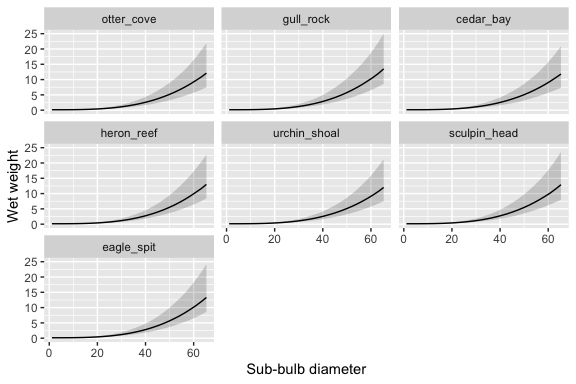
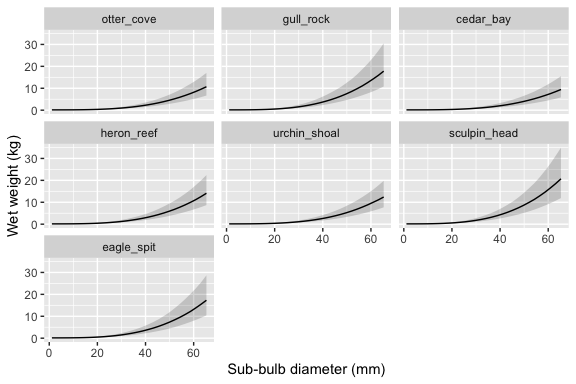
Remove density covariate references from the docs

diff --git a/CLAUDE.md b/CLAUDE.md
@@ -67,17 +67,17 @@ Adaptations from the analysis Stan models: prior hyperparameters are passed thro
 
 - **Backend**: `rstan` + `rstantools`; Stan models in `inst/stan/` are pre-compiled at `R CMD INSTALL`. Users need no `cmdstanr` or Stan installation. Why: `decisions/engine-choice.md`.
 - **Priors as data**: hyperparameters go in the Stan `data` block as `prior_<entry>_<argument>` (built by `prior_data()`); the prior family is fixed at compile time. Users set priors with `kb_prior_normal()` / `kb_prior_exponential()` / `kb_prior_lognormal()` in the list from `kb_priors_*()`.
-- **Structural flags**: small effects are toggled by 0/1 data flags (`site_year_on`, `density_on`, `floor_on`, `prior_only`) that the fitting layer sets from the data or from a model-choice argument (`form`), never exposed as flag arguments themselves. Use a separate `.stan` only for a different likelihood or major variant; each species is such a variant (`decisions/species-as-variant.md`).
+- **Structural flags**: small effects are toggled by 0/1 data flags (`site_year_on`, `floor_on`, `prior_only`) that the fitting layer sets from the data or from a model-choice argument (`form`), never exposed as flag arguments themselves. Use a separate `.stan` only for a different likelihood or major variant; each species is such a variant (`decisions/species-as-variant.md`).
 - **Parameter names** (snake_case, applied by rule even where nothing would collide; rationale and the mapping from the analysis names in `decisions/parameter-naming.md`):
   1. The intercept of a linear predictor is `intercept`.
-  2. A parameter tied to a predictor is `<predictor>_<role>`, `<predictor>` being the Stan data field it acts on without its unit suffix: `<predictor>_slope` for a coefficient (`density_slope`, `fronds_slope`, `tide_height_slope`, `cover_slope`), `<predictor>_power` for an exponent (`diameter_power`).
+  2. A parameter tied to a predictor is `<predictor>_<role>`, `<predictor>` being the Stan data field it acts on without its unit suffix: `<predictor>_slope` for a coefficient (`fronds_slope`, `tide_height_slope`, `cover_slope`), `<predictor>_power` for an exponent (`diameter_power`).
   3. Group-level terms are `sd_<group>`, `<group>_effect`, and `z_<group>` (non-centred deviates) for `site`, `year`, and `site_year`.
   4. Distribution parameters take their standard names: `shape`, `dispersion` (negative binomial, variance `mu + dispersion * mu^2`), `precision` (Beta), `sd_residual`.
   5. A floor is `<quantity>_floor` (`weight_floor`, `biomass_floor`).
   6. Link-scale terms of a linear predictor take no scale prefix; a standalone scalar stored on a transformed scale takes `log_` or `logit_` (`logit_zero_inflation`).
   7. No parameter shares a name with a data field, an input column, a Stan reserved word (`lower`, `upper`, `offset`, `multiplier`, `target`), or a Stan function (`floor`, `gamma`, `beta`, `log`, `exp`).
   8. A parameter's prior entry in `kb_priors_*()` has the parameter's name.
-- **Stan data names**: a field passing an input column through takes the column's name (`diameter_mm`, `area_m2`, `tide_height_m`); a derived field is named for its quantity (`log_biomass`, `dry_wet_ratio`, standardised `density`); sizes are `n_obs`, `n_site`, `n_year`; flags keep `<effect>_on`.
+- **Stan data names**: a field passing an input column through takes the column's name (`diameter_mm`, `area_m2`, `tide_height_m`); a derived field is named for its quantity (`log_biomass`, `dry_wet_ratio`); sizes are `n_obs`, `n_site`, `n_year`; flags keep `<effect>_on`.
 - **Stan code**: non-centred random effects (`site_effect = z_site * sd_site`); the mean is a local in the `model` block and there are no generated quantities, since `log_lik` and replicates are computed in R from the stored draws.
 - **Sampling** defaults: 4 chains, `adapt_delta = 0.95`, thinning by `nthin`.
 
@@ -103,7 +103,7 @@ predict.kb_fit_weight  # model tier: wraps the model-named kb_predict_weight()
 .epred.kb_fit_weight              # model tier (nereo overrides for the lognormal mean)
 .linpred.kb_fit_weight_nereo      # leaf: also .obs_family/.chk_new_data
 # Per-model facts that are values, not behaviour, live in meta instead (offset,
-# terms, predictor, predictor_ref, form, and the site_year_on/density_on flags). See "Meta Versus
+# terms, predictor, predictor_ref, form, and the site_year_on flag). See "Meta Versus
 # Dispatch" in decisions/architecture.md for the rule that decides which.
 ```
 
@@ -131,12 +131,12 @@ Access via `$`: `x$draws`, `x$data`, `x$meta`; `kb_samples(x)` and `posterior::a
     cli::cli_abort("{x_name} must be greater than or equal to 0.")
   }
   ```
-- **Input columns**: a column measured in a unit names it as a suffix (`diameter_mm`, `weight_kg`, `stipes_m2`); counts (`fronds`) and grouping columns (`site`, `year`) take none. A column shared by sub-models keeps one name and unit (`column_units`). Units are fixed, never converted; the plausibility warnings back them. Stan data fields that pass a column through keep its name and suffix; parameters and prior entries are not columns and take no unit suffix (`density_slope`, `diameter_power`).
+- **Input columns**: a column measured in a unit names it as a suffix (`diameter_mm`, `weight_kg`, `area_m2`); counts (`fronds`) and grouping columns (`site`, `year`) take none. A column shared by sub-models keeps one name and unit (`column_units`). Units are fixed, never converted; the plausibility warnings back them. Stan data fields that pass a column through keep its name and suffix; parameters and prior entries are not columns and take no unit suffix (`fronds_slope`, `diameter_power`).
 - **Output columns**: summaries use `term` / `estimate` / `lower` / `upper` (following bboutools).
 - **Documentation**: roxygen2 with markdown; shared parameters and sections live in `R/params.R` (`@inheritParams params`, `@inheritSection params`). Every reader-facing text (roxygen, `_pkgdown.yml`, README, vignettes) follows `STYLE.md`: topic structure, argument and return wording, vocabulary, examples, and templates per topic type.
 - **Arguments**: name by type, not by dispatch: `data` for input data, `fit` for a fit object (including `kb_stancode()` and `kb_samples()`), `predictions` for a `kb_predictions` frame. S3 methods must keep the generic's first-arg name (`object` for base/stats/rstantools/ggplot2, `x` for generics/posterior), which `R CMD check` enforces, so `object`/`x`/`fit` all naming the same fit is expected, not an inconsistency to fix. Multi-word names are snake_case (`new_data`, `new_levels`, `conf_level`); take the ecosystem spelling only where a generic fixes it (e.g. `transform` in `posterior_linpred`). Order follows the tidyverse data-descriptors-details shape: primary object, then descriptor arguments meant to be passed positionally (`new_data`, `by`, `priors`, then any model choice such as `form`, after `priors` so `priors` stays second in every fit function except the cover biomass fits, whose required `biomass` data frame comes second, before it), then `...`, then every optional detail knob as a name-only argument after `...` (`new_levels`, `representative_site`, `conf_level`, `estimate`, `sig_fig`, `include_random_effects`, `rhat`, `ess`, sampler config) so details cannot be set positionally; guard an empty `...` with `rlang::check_dots_empty()`. The exception is `kb_new_data()`, whose `...` takes the predictor by its column name (`diameter_mm`, `fronds`, or `cover`) and levels of `site` or `year` not in `by`, checked against the fit. The summary trio `conf_level, estimate, sig_fig` keeps that order everywhere. `@param` wording follows `STYLE.md`.
 - **Writing** (docs, README, vignettes, roxygen, specs, PR/commit text): follow the writing style in `~/.claude/CLAUDE.md` (and `STYLE.md` for documentation); in particular no em-dashes or en-dashes (use hyphens, commas, or colons) and no mid-sentence bold for emphasis; concise technical register
-- **File layout**: one function per file, file named after the function (`kb_fit_weight_nereo()` → `R/kb_fit_weight_nereo.R`). S3 methods grouped one file per generic, named after the generic (`R/print.R` holds all `print.*` methods, `R/tidy.R` all `tidy.*`, etc.). Internal functions that share one contract go in one family file named for the family: `chk.R` (`.chk_*`), `vld.R` (`.vld_*`), `warn.R` (plausibility warnings on user data), `structural_flags.R` (`.site_year_on()`, `.density_on()`, `.floor_on()`), and one file per distribution for the extras-style `log_lik_*`/`res_*`/`ran_*` functions (`weibull.R`). Dataset documentation lives in `R/data.R` (simulated datasets) and `R/fits.R` (pre-fit models). A computation and the notifier that reports it share a file (`density_structure()` and `notify_density()`). Other internal helpers go in clearly-named files, never a catch-all `utils.R`.
+- **File layout**: one function per file, file named after the function (`kb_fit_weight_nereo()` → `R/kb_fit_weight_nereo.R`). S3 methods grouped one file per generic, named after the generic (`R/print.R` holds all `print.*` methods, `R/tidy.R` all `tidy.*`, etc.). Internal functions that share one contract go in one family file named for the family: `chk.R` (`.chk_*`), `vld.R` (`.vld_*`), `warn.R` (plausibility warnings on user data), `structural_flags.R` (`.site_year_on()`, `.floor_on()`), and one file per distribution for the extras-style `log_lik_*`/`res_*`/`ran_*` functions (`weibull.R`). Dataset documentation lives in `R/data.R` (simulated datasets) and `R/fits.R` (pre-fit models). A computation and the notifier that reports it share a file (`site_year_structure()` and `notify_site_year()`). Other internal helpers go in clearly-named files, never a catch-all `utils.R`.
 - **Testing**: testthat 3e; strict 1:1 test mirroring (`R/<name>.R` ↔ `tests/testthat/test-<name>.R`). Test the wrapper, not the model's numbers. Snapshot print methods + messages; NEVER snapshot MCMC numerics (test structure + invariants instead). **Never accept snapshot changes** (`testthat::snapshot_accept()`, or accepting via any other route): snapshots are the user's review surface. Run the tests, report what changed and why, and leave the `.new` files in place for the user to review locally with `testthat::snapshot_review()`. Small pre-built fits in `tests/testthat/fixtures/` (built with `rstan::sampling(seed=)`, not `set.seed`); they test structure, not inference, and may not meet the strict `converged()` thresholds. Slow end-to-end fits `skip_on_cran()`. Factor pure logic (data/prior assembly) out of fit functions for MCMC-free testing.
 - **Code style**: tidyverse; no lubridate, reshape2, plyr, or data.table
 - **No `library()` calls** in package code; use `@importFrom` or `pkg::fun()`

diff --git a/README.md b/README.md
@@ -49,22 +49,22 @@ The allometric weight model relates wet weight to sub-bulb diameter,
 with random effects for year, site, and site-by-year.
 
 The model is fitted to a data frame of `diameter_mm`, `weight_kg`,
-`site`, and `year`, with an optional site-year stipe density,
-`stipes_m2`. A small simulated dataset is included with the package:
+`site`, and `year`. A small simulated dataset is included with the
+package:
 
 ``` r
 library(kelpbio)
 
 head(data_weight_sim_nereo)
-#> # A tibble: 6 × 5
-#>   diameter_mm weight_kg site       year  stipes_m2
-#>         <dbl>     <dbl> <fct>      <fct>     <dbl>
-#> 1        26.6     0.661 otter_cove 2019       0.37
-#> 2        11.8     0.134 otter_cove 2019       0.37
-#> 3        22.8     0.715 otter_cove 2019       0.37
-#> 4        37.1     1.94  otter_cove 2019       0.37
-#> 5        36.5     1.52  otter_cove 2019       0.37
-#> 6        25.9     0.271 otter_cove 2019       0.37
+#> # A tibble: 6 × 4
+#>   diameter_mm weight_kg site       year 
+#>         <dbl>     <dbl> <fct>      <fct>
+#> 1        26.6     0.59  otter_cove 2019 
+#> 2        11.8     0.129 otter_cove 2019 
+#> 3        22.8     0.644 otter_cove 2019 
+#> 4        37.1     1.71  otter_cove 2019 
+#> 5        36.5     1.34  otter_cove 2019 
+#> 6        25.9     0.242 otter_cove 2019
 ```
 
 Fit the model with `kb_fit_weight_nereo()`:
@@ -85,23 +85,23 @@ Check convergence with `glance()` and summarise the model terms with
 
 ``` r
 glance(fit)
-#> # A tibble: 1 × 9
-#>       n     K nchains niters nthin   ess  rhat perc_divergent converged
-#>   <int> <int>   <int>  <dbl> <int> <dbl> <dbl>          <dbl> <lgl>    
-#> 1   420    11       3    500     2  641.  1.00              0 TRUE
+#> # A tibble: 1 × 10
+#>       n     K nchains niters nthin ess_bulk ess_tail  rhat perc_divergent
+#>   <int> <int>   <int>  <dbl> <int>    <dbl>    <dbl> <dbl>          <dbl>
+#> 1   420     7       3    500     2     629.     646.  1.00              0
+#> # ℹ 1 more variable: converged <lgl>
 
 tidy(fit)
-#> # A tibble: 8 × 4
-#>   term      estimate    lower  upper
-#>   <chr>        <dbl>    <dbl>  <dbl>
-#> 1 bWeight    -1.02   -1.49    -0.498
-#> 2 bPower      3.25    3.02     3.5  
-#> 3 bFloor      0.125   0.107    0.144
-#> 4 bDensity   -0.0528 -0.219    0.107
-#> 5 sSite       0.106   0.00442  0.385
-#> 6 sYear       0.326   0.0889   1.02 
-#> 7 sSiteYear   0.246   0.131    0.426
-#> 8 sWeight     0.449   0.421    0.485
+#> # A tibble: 7 × 4
+#>   term           estimate   lower  upper
+#>   <chr>             <dbl>   <dbl>  <dbl>
+#> 1 intercept        -0.932 -1.43   -0.397
+#> 2 diameter_power    3.26   3.04    3.51 
+#> 3 weight_floor      0.125  0.106   0.145
+#> 4 sd_site           0.342  0.143   0.716
+#> 5 sd_year           0.307  0.0902  1.01 
+#> 6 sd_site_year      0.13   0.0112  0.34 
+#> 7 sd_residual       0.45   0.422   0.482
 ```
 
 Predict the weight-diameter curve for each site at a grid from
@@ -125,13 +125,13 @@ set.seed(1)
 kb_predict_weight(fit, new_data)
 #> <kb_predictions> predictor: diameter_mm | response: weight_kg | by: site
 #> # A tibble: 5 × 5
-#>   diameter_mm site       estimate  lower  upper
-#>         <dbl> <chr>         <dbl>  <dbl>  <dbl>
-#> 1          20 otter_cove    0.398  0.295  0.582
-#> 2          35 otter_cove    1.73   1.12   2.85 
-#> 3          50 otter_cove    5.18   3.25   8.94 
-#> 4          65 otter_cove   11.9    7.32  21.6  
-#> 5          80 otter_cove   23.3   13.9   43.2
+#>   diameter_mm site       estimate  lower upper
+#>         <dbl> <chr>         <dbl>  <dbl> <dbl>
+#> 1          20 otter_cove    0.361  0.278  0.5 
+#> 2          35 otter_cove    1.52   1      2.33
+#> 3          50 otter_cove    4.56   2.89   7.11
+#> 4          65 otter_cove   10.5    6.57  16.7 
+#> 5          80 otter_cove   20.6   12.7   33.4
 ```
 
 The fitted object exposes the standard `rstantools` generics

diff --git a/decisions/parameter-naming.md b/decisions/parameter-naming.md
@@ -27,9 +27,9 @@ name. The rules are in CLAUDE.md ("Parameter names", "Stan data names").
 The rules apply even where no name would collide (`diameter_power`, not
 `power`), so a new sub-model's names follow from the rules and the names stay
 predictable. Two of them avoid collisions that the plain role names would
-cause: a slope carries its predictor's name (`density_slope`), because
-`density`, `fronds`, `canopy_area_m2`, and `tide_height_m` are already Stan
-data fields or input columns, and a floor carries its quantity (`weight_floor`, `biomass_floor`),
+cause: a slope carries its predictor's name (`fronds_slope`), because
+`fronds`, `canopy_area_m2`, and `tide_height_m` are already Stan data fields or
+input columns, and a floor carries its quantity (`weight_floor`, `biomass_floor`),
 because `floor` is a Stan function.
 
 `dispersion` keeps kelpbio's direction (variance `mu + dispersion * mu^2`, zero
@@ -64,7 +64,6 @@ for the Poisson), which matches Stan's naming of phi as the precision and the
 | Weight, *Nereocystis* | `bWeight` | `intercept` |
 | | `bPower` | `diameter_power` |
 | | `bFloor` | `weight_floor` |
-| | `bDensity` | `density_slope` |
 | | `sWeight` | `sd_residual` |
 | Weight, *Macrocystis* | `bWeight` | `intercept` |
 | | `bFronds` | `fronds_slope` |

diff --git a/decisions/intermediate-predictions.md b/decisions/intermediate-predictions.md
@@ -138,8 +138,9 @@ site-year (`R/mock-example.R`).
 
 **Found in passing, not checked yet:**
 
-- The weight fit adds `stipes_m2` whenever a density sheet exists, even one that
-  failed its check (`R/state.R:286-288`), which would make the weight fit fail.
+- The app adds `stipes_m2` to the weight data whenever a density sheet exists
+  (`R/state.R:286-288`). The kelpbio weight model no longer reads that column, so
+  the app can stop adding it.
 - *Macrocystis* labels still say sub-bulb diameter and 50 mm (`R/data.R:509-515`);
   the app's *Macrocystis* reference is 10 fronds, the mock's 12.5.
 - Stale comments: `R/app-ui.R:1`, `decisions/webapp-decision.md:66-86`,

diff --git a/decisions/vignettes.md b/decisions/vignettes.md
@@ -39,8 +39,5 @@ Interpretation:
 - Without harvest data, the weight model is borrowed from another programme, so
   biomass assumes that programme's allometry applies, and the intervals do not
   include variation in the allometry between programmes.
-- The *Nereocystis* weight model's density effect was estimated on diver stipe
-  density. Surface density is lower, so use a weight fit without the density
-  effect, or state the mismatch.
 - `zi` and the dispersion describe the quadrat design and are not comparable
   with transect-based fits.
